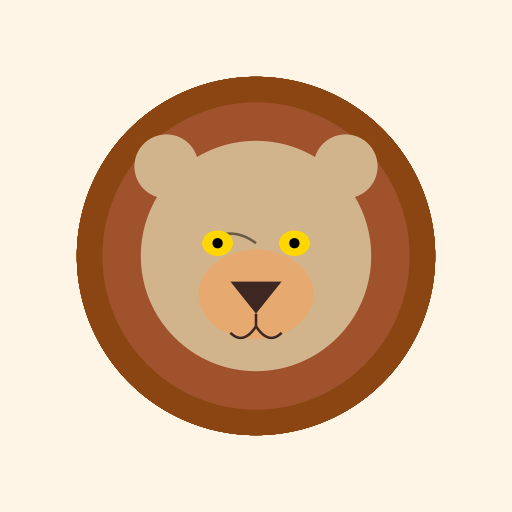
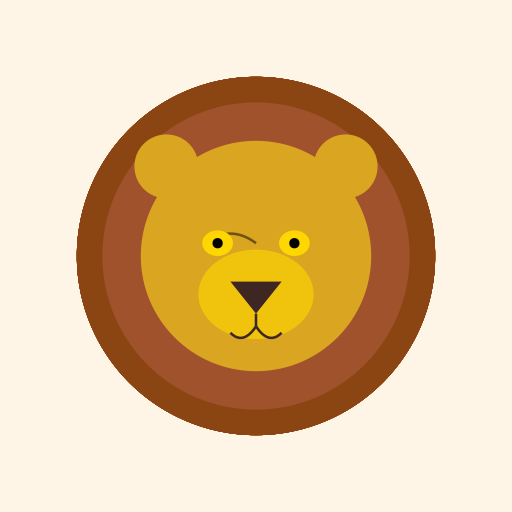
🦁 Daily evolution

Changed region(s): [[0.25, 0.25, 0.75, 0.75]]

diff --git a/README.md b/README.md
@@ -90,9 +90,9 @@ In **Actions** → **Daily Evolution** → **Enable workflow**
 
 <!-- LION_STATS_START -->
 - **Generation**: 1
-- **Age**: 97 days
-- **Mutations**: 10
-- **Rarity Score**: 13.3/100
+- **Age**: 98 days
+- **Mutations**: 11
+- **Rarity Score**: 15.0/100
 <!-- LION_STATS_END -->
 
 ## Family Tree
